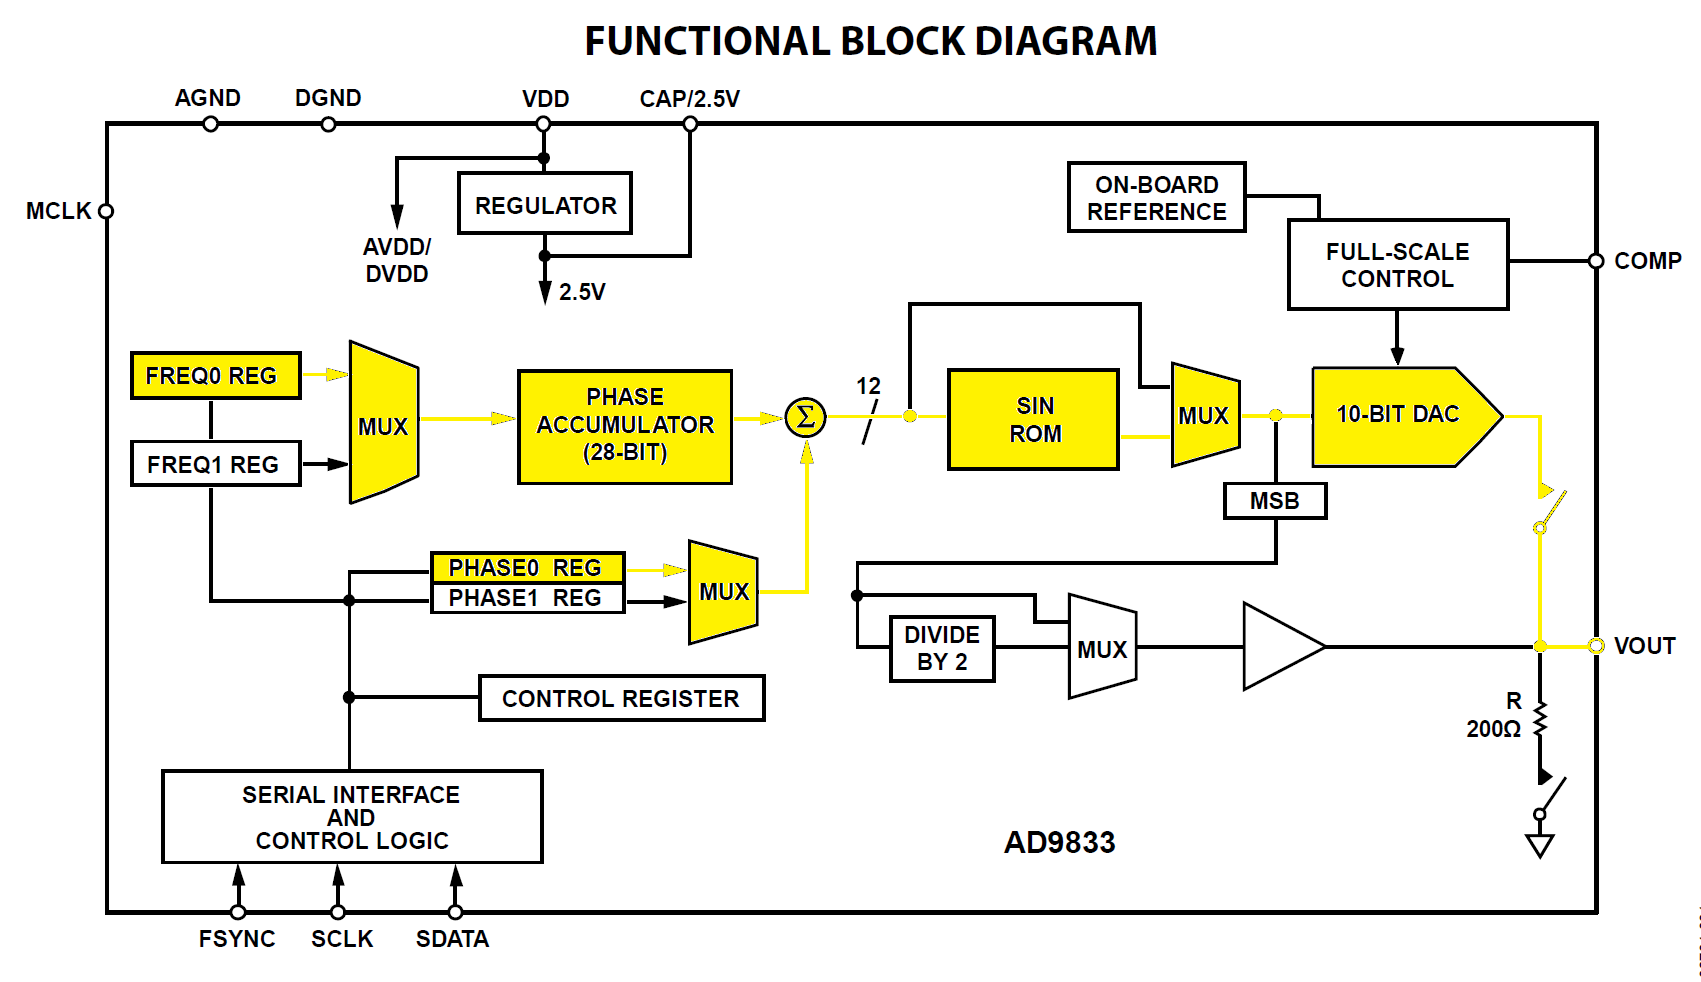
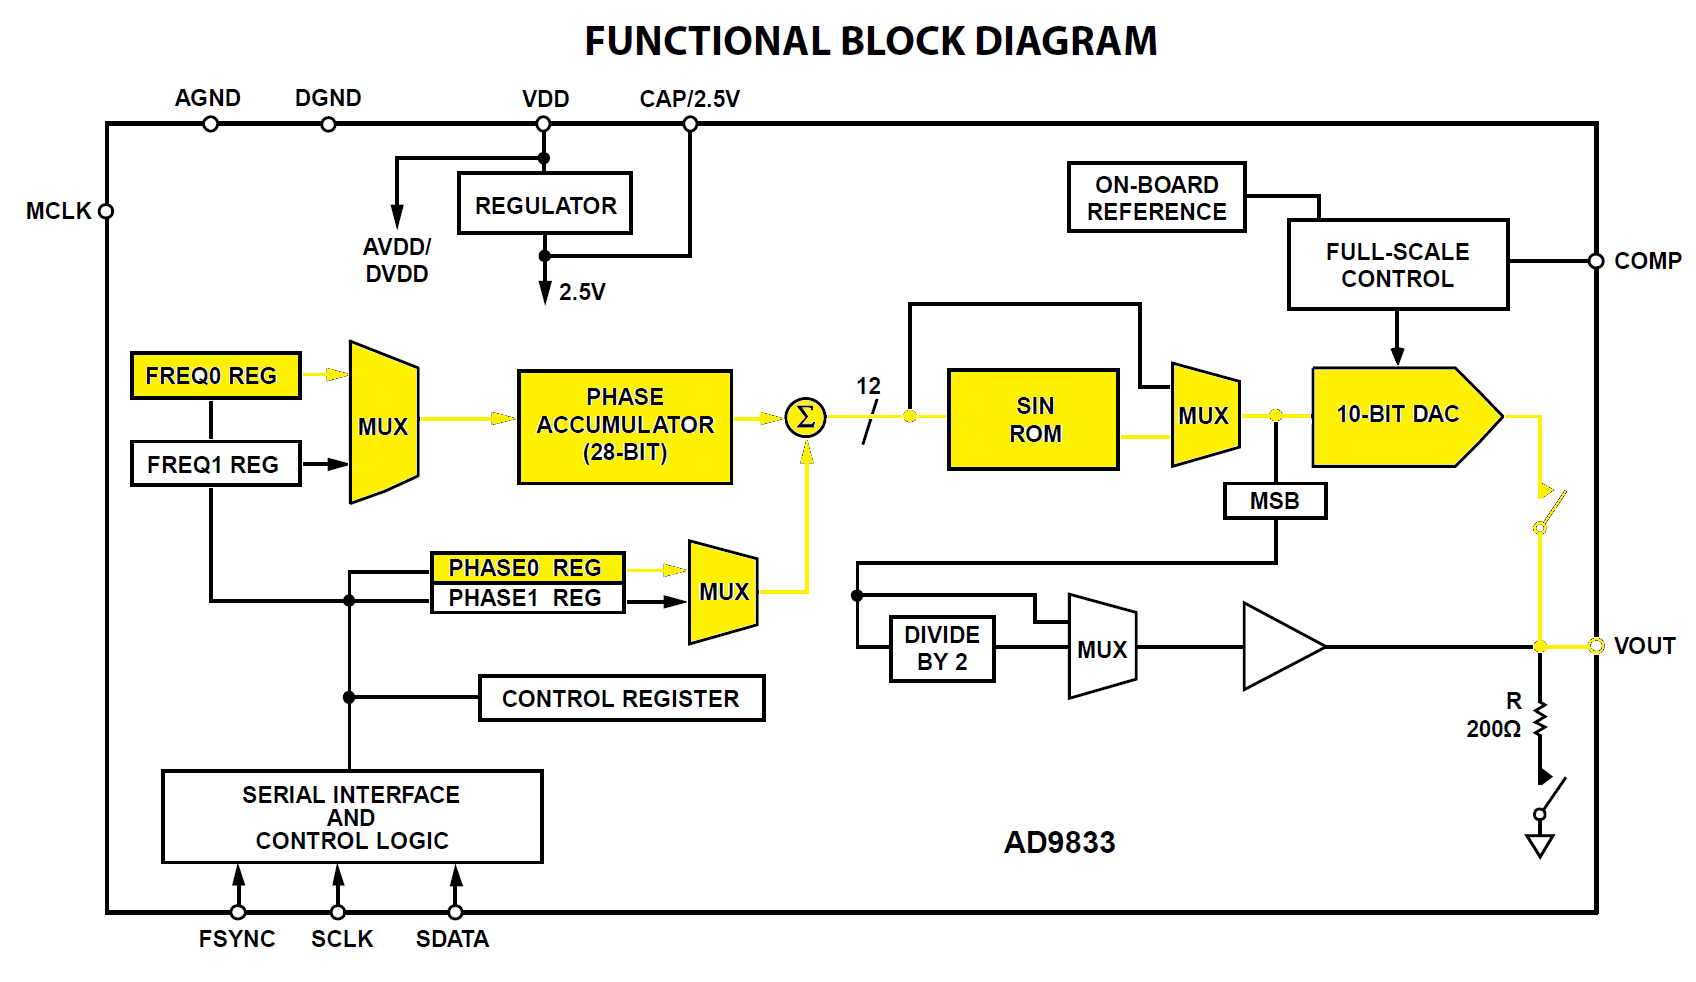
version 26

diff --git a/js/script.js b/js/script.js
@@ -1,3 +1,7 @@
+let graphData = getGraphData();
+let graphLayout = getGraphLayout();
+Plotly.newPlot("graphContainer", graphData, graphLayout, {displayModeBar: false});
+
 function changePreset() {
     const selectedOption = document.getElementById("presets").value;
     if (selectedOption === 'preset 1') {
@@ -42,17 +46,20 @@ function unselectPreset() {
 }
 
 function mux1Changed() {
+
+    const controlRegister = document.getElementById("control_register");
+    if (controlRegister.value.length < 5) {
+        return;
+    }
+
     const first = document.getElementById("mux1_first");
     const second = document.getElementById("mux1_second");
-    const controlRegister = document.getElementById("control_register");
 
     // 5 символ - 1 то freq0Reg, 0 - freq1Reg
-
     if (first.checked) {
         // symbol with index 4 should be '0'
         controlRegister.value = controlRegister.value.substring(0, 4) + '0' + controlRegister.value.substring(5);
     }
-
     if (second.checked) {
         // symbol with index 4 should be '1'
         controlRegister.value = controlRegister.value.substring(0, 4) + '1' + controlRegister.value.substring(5);
@@ -62,17 +69,20 @@ function mux1Changed() {
 }
 
 function mux2Changed() {
+
+    const controlRegister = document.getElementById("control_register");
+    if (controlRegister.value.length < 6) {
+        return;
+    }
+
     const first = document.getElementById("mux2_first");
     const second = document.getElementById("mux2_second");
-    const controlRegister = document.getElementById("control_register");
 
     // 6 символ - 1 то phase1Reg, 0 - phase0Reg
-
     if (first.checked) {
         // symbol with index 5 should be '0'
         controlRegister.value = controlRegister.value.substring(0, 5) + '0' + controlRegister.value.substring(6);
     }
-
     if (second.checked) {
         // symbol with index 5 should be '1'
         controlRegister.value = controlRegister.value.substring(0, 5) + '1' + controlRegister.value.substring(6);
@@ -83,17 +93,20 @@ function mux2Changed() {
 }
 
 function mux4Changed() {
+
+    const controlRegister = document.getElementById("control_register");
+    if (controlRegister.value.length < 15) {
+        return;
+    }
+
     const first = document.getElementById("mux4_first");
     const second = document.getElementById("mux4_second");
-    const controlRegister = document.getElementById("control_register");
 
     // 15 символ - 1 то sinRomOutput, 0 - sinRomInput
-
     if (first.checked) {
         // symbol with index 14 should be '1'
         controlRegister.value = controlRegister.value.substring(0, 14) + '1' + controlRegister.value.substring(15);
     }
-
     if (second.checked) {
         // symbol with index 14 should be '0'
         controlRegister.value = controlRegister.value.substring(0, 14) + '0' + controlRegister.value.substring(15);
@@ -178,61 +191,95 @@ function updateSchema() {
     }
 }
 
-let graphData = getGraphData();
-let graphLayout = getGraphLayout();
-Plotly.newPlot("graphContainer", graphData, graphLayout, {displayModeBar: false});
+let freq0Reg;
+let freq1Reg;
+let phaseAccumulator;
+let phase0Reg;
+let phase1Reg;
+let controlRegister;
+let baseFrequency;
+let centralSum = 0;
+let sinRomOutput = 0;
+let DAC10bit = 0;
+let totalExecutedTacts = 0;
+let startRangeX = 0;
+let endRangeX = 100;
+let state = "stopped"; // can be "running" or "stopped"
+let tactsToRun;
+let d1;
+let d10;
+let d11;
 
-let intervalID;
+function onRun(newTactsToRun = Infinity, continueGenerate = false) {
 
-function generateGraph() {
-    clearInterval(intervalID);
+    if (state === "running") {
+        alert("График и так запущен");
+        return;
+    }
+
+    let inputFieldsCorrect = checkInputFields();
+    if (!inputFieldsCorrect) {
+        alert("Некоторые поля введены некорректно");
+        return;
+    }
 
     // values of html fields (datatype is number)
-    let freq0Reg = parseInt(document.getElementById("freq0_reg").value, 2);
-    let freq1Reg = parseInt(document.getElementById("freq1_reg").value, 2);
-    let phaseAccumulator = parseInt(document.getElementById("phase_accumulator").value, 2);
-    let phase0Reg = parseInt(document.getElementById("phase0_reg").value, 2);
-    let phase1Reg = parseInt(document.getElementById("phase1_reg").value, 2);
-    let controlRegister = parseInt(document.getElementById("control_register").value, 2);
-    let baseFrequency = 1 / (parseInt(document.getElementById("base_frequency").value) * parseInt(document.getElementById("base_frequency_unit").value));
+    if (continueGenerate === false) {
+        freq0Reg = parseInt(document.getElementById("freq0_reg").value, 2);
+        freq1Reg = parseInt(document.getElementById("freq1_reg").value, 2);
+        phaseAccumulator = parseInt(document.getElementById("phase_accumulator").value, 2);
+        phase0Reg = parseInt(document.getElementById("phase0_reg").value, 2);
+        phase1Reg = parseInt(document.getElementById("phase1_reg").value, 2);
+        controlRegister = parseInt(document.getElementById("control_register").value, 2);
+        baseFrequency = 1 / (parseInt(document.getElementById("base_frequency").value) * parseInt(document.getElementById("base_frequency_unit").value));
 
-    // registers data (datatype is boolean)
-    let d1 = (controlRegister & 0b0_000_000_000_000_010) === 0; // 'true' for bypass "SIN ROM" and 'false' for "SIN ROM"
-    let d10 = (controlRegister & 0b0_000_010_000_000_000) === 0; // 'true' for "PHASE1 REG" and 'false' for "PHASE0 REG"
-    let d11 = (controlRegister & 0b0_000_100_000_000_000) === 0; // 'true' for "FREQ1 REG" and 'false' for "FREQ0 REG"
+        document.getElementById("current_freq0_reg").value = document.getElementById("current_freq0_reg").value + " " + freq0Reg;
+        document.getElementById("current_freq1_reg").value = document.getElementById("current_freq1_reg").value + " " + freq1Reg;
+        document.getElementById("current_phase_accumulator").value = document.getElementById("current_phase_accumulator").value + " " + phaseAccumulator;
+        document.getElementById("current_phase0_reg").value = document.getElementById("current_phase0_reg").value + " " + phase0Reg;
+        document.getElementById("current_phase1_reg").value = document.getElementById("current_phase1_reg").value + " " + phase1Reg;
+        document.getElementById("current_control_register").value = document.getElementById("current_control_register").value + " " + controlRegister;
+
+        // registers data (datatype is boolean)
+        d1 = (controlRegister & 0b0_000_000_000_000_010) === 0; // 'true' for bypass "SIN ROM" and 'false' for "SIN ROM"
+        d10 = (controlRegister & 0b0_000_010_000_000_000) === 0; // 'true' for "PHASE1 REG" and 'false' for "PHASE0 REG"
+        d11 = (controlRegister & 0b0_000_100_000_000_000) === 0; // 'true' for "FREQ1 REG" and 'false' for "FREQ0 REG"
+    }
+
+    state = "running";
+    if (tactsToRun !== undefined) {
+        tactsToRun = newTactsToRun;
+    }
 
     graphData = getGraphData();
     graphLayout = getGraphLayout();
 
-    const graphContainer = document.getElementById("graphContainer");
-    Plotly.purge(graphContainer);
-    Plotly.newPlot("graphContainer", graphData, graphLayout, {displayModeBar: false});
+    let handler = function () {
 
-    // phaseAccumulator already defined
-    let centralSum = 0;
-    let sinRomOutput = 0;
-    let DAC10bit = 0;
-    let i = 0;
+        if (state === "stopped" || tactsToRun === 0) {
+            clearInterval(intervalID);
+        }
 
-    intervalID = setInterval(function () {
         let mux1 = d11 ? freq0Reg : freq1Reg;
         phaseAccumulator = (mux1 + phaseAccumulator) & 0xfffffff;
+        document.getElementById("current_phase_accumulator").value = document.getElementById("current_phase_accumulator").value + " " + phaseAccumulator;
         let mux2 = d10 ? phase0Reg : phase1Reg;
         centralSum = phaseAccumulator + mux2;
+        document.getElementById("current_central_sum").value = document.getElementById("current_central_sum").value + " " + centralSum;
         // angle in radians
         let sinRomInput = ((2 * Math.PI) / (Math.pow(2, 12) - 1)) * centralSum;
         let sinRom = Math.sin(sinRomInput + sinRomInput);
         sinRomOutput = (1 / (Math.pow(2, 10) - 1)) * sinRom;
+        document.getElementById("current_sin_rom").value = document.getElementById("current_sin_rom").value + " " + sinRomOutput;
         let mux4 = d1 ? sinRomOutput : sinRomInput;
         DAC10bit = (DAC10bit + ((0.7 / (Math.pow(2, 10) - 1)) * mux4));
+        document.getElementById("current_10_bit_dac").value = document.getElementById("current_10_bit_dac").value + " " + DAC10bit;
 
-        let startRangeX = 0;
-        if (i > 100) {
-            startRangeX += i - 100;
+        if (totalExecutedTacts > 100) {
+            startRangeX += totalExecutedTacts - 100;
         }
-        let endRangeX = 100;
-        if (i > 100) {
-            endRangeX += i - 100;
+        if (totalExecutedTacts > 100) {
+            endRangeX += totalExecutedTacts - 100;
         }
 
         let layoutUpdate = Object.assign({}, graphLayout);
@@ -243,11 +290,36 @@ function generateGraph() {
                 easing: "linear"
             }
         });
-        Plotly.extendTraces("graphContainer", {x: [[i]], y: [[DAC10bit]]}, [0]);
+        Plotly.extendTraces("graphContainer", {x: [[totalExecutedTacts]], y: [[DAC10bit]]}, [0]);
 
-        i++;
+        totalExecutedTacts++;
+        tactsToRun -= 1;
 
-    }, baseFrequency * 1000);
+    };
+
+    let intervalID = setInterval(handler, baseFrequency * 1000);
+
+}
+
+function runNTacts() {
+    let tactsToRun = document.getElementById("tactsToRunInput").value;
+    onRun(tactsToRun);
+}
+
+function onStop() {
+    if (state === "stopped") {
+        alert("График и так остановлен");
+        return;
+    }
+    state = "stopped";
+}
+
+function onContinue() {
+    if (state === "running") {
+        alert("График и так запущен");
+        return;
+    }
+    onRun(undefined, true);
 }
 
 function getGraphData() {
@@ -261,7 +333,7 @@ function getGraphData() {
 function getGraphLayout() {
     return {
         xaxis: {
-            title: "seconds",
+            title: "tacts",
             range: [0, 100],
         },
         yaxis: {
@@ -269,4 +341,48 @@ function getGraphLayout() {
         },
         dragmode: 'pan',
     };
+}
+
+function checkInputFields() {
+    let freq0Reg = document.getElementById("freq0_reg").value;
+    let freq1Reg = document.getElementById("freq1_reg");
+    let phaseAccumulator = document.getElementById("phase_accumulator").value;
+    let phase0Reg = document.getElementById("phase0_reg").value;
+    let phase1Reg = document.getElementById("phase1_reg").value;
+    let controlRegister = document.getElementById("control_register").value;
+    let baseFrequency = document.getElementById("base_frequency").value;
+
+    if (isBinaryString(freq0Reg) && freq0Reg.length !== 28) {
+        return false;
+    }
+
+    if (isBinaryString(freq1Reg) && freq1Reg.length !== 28) {
+        return false;
+    }
+
+    if (isBinaryString(phaseAccumulator) && phaseAccumulator.length !== 28) {
+        return false;
+    }
+
+    if (isBinaryString(phase0Reg) && phase0Reg.length !== 12) {
+        return false;
+    }
+
+    if (isBinaryString(phase1Reg) && phase1Reg.length !== 12) {
+        return false;
+    }
+
+    if (isBinaryString(controlRegister) && controlRegister.length !== 16) {
+        return false;
+    }
+
+    if (isBinaryString(baseFrequency) && baseFrequency.length > 9) {
+        return false;
+    }
+
+    return true;
+}
+
+function isBinaryString(str) {
+    return /^[01]+$/.test(str);
 }

diff --git a/html/index.html b/html/index.html
@@ -97,28 +97,30 @@
 </div>
 
 <div class="lightgray">
-    <p>Current values</p>
+    <p>Current values:</p>
     <br>
-    <p>FREQ0 REG:</p>
+    <p id="current_freq0_reg">FREQ0 REG:</p>
     <br>
-    <p>FREQ1 REG:</p>
+    <p id="current_freq1_reg">FREQ1 REG:</p>
     <br>
-    <p>PHASE ACCUMULATOR:</p>
+    <p id="current_phase_accumulator">PHASE ACCUMULATOR:</p>
     <br>
-    <p>PHASE0 REG:</p>
+    <p id="current_central_sum">CENTRAL SUM:</p>
     <br>
-    <p>PHASE1 REG:</p>
+    <p id="current_phase0_reg">PHASE0 REG:</p>
     <br>
-    <p>CONTROL REGISTER:</p>
+    <p id="current_phase1_reg">PHASE1 REG:</p>
     <br>
-    <p>SIN ROM:</p>
+    <p id="current_control_register">CONTROL REGISTER:</p>
     <br>
-    <p>10-BIT DAC:</p>
+    <p id="current_sin_rom">SIN ROM:</p>
+    <br>
+    <p id="current_10_bit_dac">10-BIT DAC:</p>
     <br>
 </div>
 
 <div>
-    <img src="../images/schema-pictures/no-path-schema.png" id="scheme_image" width="1701" height="982"
+    <img src="../images/schema-pictures/no-path-schema.png" id="scheme_image" width="1696" height="982"
          alt="control schema">
 </div>
 
@@ -136,18 +138,22 @@
 <!-- Старый график никогда не удаляется. -->
 
 <div class="lightgray">
-    <button onclick="generateGraph()" id="generate_graph">Run</button>
-    <button>Run 1 tact</button>
-    <button>Run 10 tacts</button>
-    <button>Run 20 tacts</button>
-    <button>Run 30 tacts</button>
-    <button>Run <input type="text" size="1"> tacts</button>
+    <button onclick="onRun()" id="generate_graph">Run</button>
+    <button onclick="onRun(1)">Run 1 tact</button>
+    <button onclick="onRun(10)">Run 10 tacts</button>
+    <button onclick="onRun(20)">Run 20 tacts</button>
+    <button onclick="onRun(30)">Run 30 tacts</button>
+    <button onclick="runNTacts()">
+        Run
+        <input type="text" size="1" id="tactsToRunInput" onclick="event.stopPropagation()">
+        tacts
+    </button>
     <br>
     <br>
-    <button>Stop</button>
+    <button onclick="onStop()">Stop</button>
     <br>
     <br>
-    <button>Continue</button>
+    <button onclick="onContinue()">Continue</button>
 </div>
 
 <div id="graphContainer"></div>
